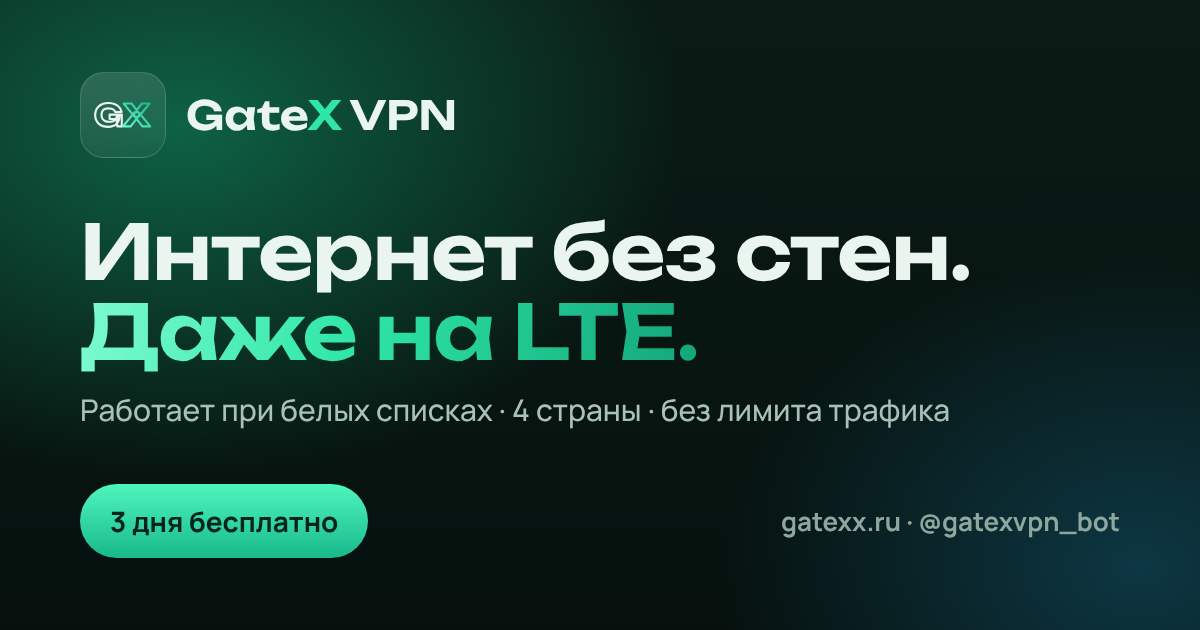
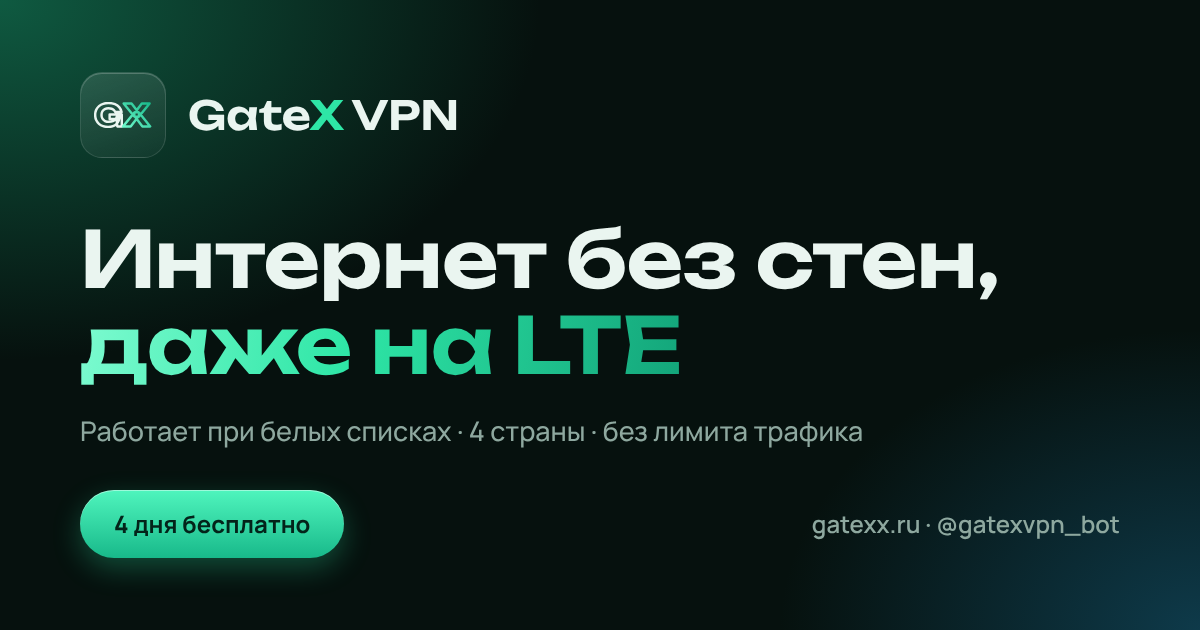
Site: 4-day trial everywhere, og.png from source with new headline
Claude-Session: https://claude.ai/code/session_01S5mGcLpWXZYb4errWYKSSr

diff --git a/site/vpn-belye-spiski/index.html b/site/vpn-belye-spiski/index.html
@@ -4,10 +4,10 @@
 <meta charset="utf-8">
 <meta name="viewport" content="width=device-width, initial-scale=1, viewport-fit=cover">
 <title>VPN при белых списках на мобильном интернете | GateX</title>
-<meta name="description" content="Что такое белые списки у мобильных операторов, почему обычный VPN при них не работает и как подключить GateX за пару минут. 3 дня бесплатно в Telegram.">
+<meta name="description" content="Что такое белые списки у мобильных операторов, почему обычный VPN при них не работает и как подключить GateX за пару минут. 4 дня бесплатно в Telegram.">
 <meta name="theme-color" content="#06110e">
 <meta property="og:title" content="VPN при белых списках на мобильном интернете | GateX">
-<meta property="og:description" content="Что такое белые списки у мобильных операторов, почему обычный VPN при них не работает и как подключить GateX за пару минут. 3 дня бесплатно в Telegram.">
+<meta property="og:description" content="Что такое белые списки у мобильных операторов, почему обычный VPN при них не работает и как подключить GateX за пару минут. 4 дня бесплатно в Telegram.">
 <meta property="og:type" content="article">
 <meta property="og:url" content="https://gatexx.ru/vpn-belye-spiski/">
 <meta property="og:image" content="https://gatexx.ru/og.png">
@@ -21,7 +21,7 @@
 <link rel="preconnect" href="https://fonts.gstatic.com" crossorigin>
 <link rel="stylesheet" href="https://fonts.googleapis.com/css2?family=Manrope:wght@400;500;600;700;800&family=Unbounded:wght@500;600;700&display=swap">
 <link rel="stylesheet" href="/assets/guide.css">
-<script type="application/ld+json">{"@context": "https://schema.org", "@type": "Article", "headline": "VPN при белых списках на мобильном интернете", "description": "Что такое белые списки у мобильных операторов, почему обычный VPN при них не работает и как подключить GateX за пару минут. 3 дня бесплатно в Telegram.", "inLanguage": "ru", "mainEntityOfPage": "https://gatexx.ru/vpn-belye-spiski/", "image": "https://gatexx.ru/og.png", "datePublished": "2026-11-02", "dateModified": "2026-11-02", "author": {"@type": "Organization", "name": "GateX VPN", "url": "https://gatexx.ru/", "logo": "https://gatexx.ru/apple-touch-icon.png"}, "publisher": {"@type": "Organization", "name": "GateX VPN", "url": "https://gatexx.ru/", "logo": "https://gatexx.ru/apple-touch-icon.png"}}</script>
+<script type="application/ld+json">{"@context": "https://schema.org", "@type": "Article", "headline": "VPN при белых списках на мобильном интернете", "description": "Что такое белые списки у мобильных операторов, почему обычный VPN при них не работает и как подключить GateX за пару минут. 4 дня бесплатно в Telegram.", "inLanguage": "ru", "mainEntityOfPage": "https://gatexx.ru/vpn-belye-spiski/", "image": "https://gatexx.ru/og.png", "datePublished": "2026-11-02", "dateModified": "2026-11-02", "author": {"@type": "Organization", "name": "GateX VPN", "url": "https://gatexx.ru/", "logo": "https://gatexx.ru/apple-touch-icon.png"}, "publisher": {"@type": "Organization", "name": "GateX VPN", "url": "https://gatexx.ru/", "logo": "https://gatexx.ru/apple-touch-icon.png"}}</script>
 <script type="application/ld+json">{"@context": "https://schema.org", "@type": "BreadcrumbList", "itemListElement": [{"@type": "ListItem", "position": 1, "name": "Главная", "item": "https://gatexx.ru/"}, {"@type": "ListItem", "position": 2, "name": "Инструкции", "item": "https://gatexx.ru/instrukcii/"}, {"@type": "ListItem", "position": 3, "name": "VPN при белых списках", "item": "https://gatexx.ru/vpn-belye-spiski/"}]}</script>
 <script type="application/ld+json">{"@context": "https://schema.org", "@type": "FAQPage", "mainEntity": [{"@type": "Question", "name": "Будет ли GateX работать у моего оператора?", "acceptedAnswer": {"@type": "Answer", "text": "У большинства операторов да, но списки отличаются по регионам. Точно это покажет проверка на вашей SIM-карте в бесплатный пробный период."}}, {"@type": "Question", "name": "Нужно ли что-то включать, когда появились белые списки?", "acceptedAnswer": {"@type": "Answer", "text": "Нет. Если в тарифе есть обход, серверы для LTE уже есть в приложении. Выберите один из них или режим «⚡ Авто»."}}, {"@type": "Question", "name": "Нужен ли обход дома на Wi-Fi?", "acceptedAnswer": {"@type": "Answer", "text": "Нет. Дома хватает обычных серверов. Обход нужен только на мобильном интернете там, где оператор включает ограничения."}}, {"@type": "Question", "name": "Работает ли на iPhone и Android?", "acceptedAnswer": {"@type": "Answer", "text": "Да, а также на Windows и macOS. Подписка добавляется в Happ одной кнопкой, подробнее в инструкции по настройке Happ."}}, {"@type": "Question", "name": "Что делать, если всё равно не подключается?", "acceptedAnswer": {"@type": "Answer", "text": "Напишите в поддержку: укажите оператора, город и приложение. Отвечает человек."}}]}</script>
 </head>
@@ -68,7 +68,7 @@
         <p class="lead">Когда оператор включает белые списки, на телефоне открываются только Госуслуги, банки и ещё несколько разрешённых сервисов. Обычный VPN в этот момент тоже перестаёт подключаться. Ниже о том, почему так происходит и как подключается GateX.</p>
         <p class="meta">Обновлено 2 ноября 2026</p>
         <div class="cta">
-          <a class="btn btn-primary" href="https://t.me/gatexvpn_bot" target="_blank" rel="noopener"><svg><use href="#i-tg"/></svg>3 дня бесплатно</a>
+          <a class="btn btn-primary" href="https://t.me/gatexvpn_bot" target="_blank" rel="noopener"><svg><use href="#i-tg"/></svg>4 дня бесплатно</a>
           <a class="btn btn-glass" href="/#pricing">Тарифы от 49 ₽</a>
         </div>
       </header>
@@ -106,7 +106,7 @@
 они приходят вместе с подпиской, отдельно ничего включать не нужно.</p>
 <h2 id="podklyuchit">Как подключить за пару минут</h2>
 
-<div class="steps in-doc"><article class="step glass"><span class="n">1</span><h3>Откройте бота</h3><p>Нажмите «Старт» в <a href="https://t.me/gatexvpn_bot" target="_blank" rel="noopener">@gatexvpn_bot</a>. Регистрация не нужна, только Telegram.</p></article><article class="step glass"><span class="n">2</span><h3>Включите пробный период</h3><p>3 дня бесплатно, с обходом белых списков. Карта не нужна.</p></article><article class="step glass"><span class="n">3</span><h3>Добавьте подписку в приложение</h3><p>В боте нажмите «🔗 Подключиться», затем кнопку добавления в Happ. Подробно в инструкции по <a href="/happ-nastroika/">настройке Happ</a>.</p></article><article class="step glass"><span class="n">4</span><h3>Выберите сервер для LTE</h3><p>Если оператор включил ограничения, подключайтесь к серверу с пометкой LTE.</p></article></div>
+<div class="steps in-doc"><article class="step glass"><span class="n">1</span><h3>Откройте бота</h3><p>Нажмите «Старт» в <a href="https://t.me/gatexvpn_bot" target="_blank" rel="noopener">@gatexvpn_bot</a>. Регистрация не нужна, только Telegram.</p></article><article class="step glass"><span class="n">2</span><h3>Включите пробный период</h3><p>4 дня бесплатно за подписку на канал GateX, с обходом белых списков. Карта не нужна.</p></article><article class="step glass"><span class="n">3</span><h3>Добавьте подписку в приложение</h3><p>В боте нажмите «🔗 Подключиться», затем кнопку добавления в Happ. Подробно в инструкции по <a href="/happ-nastroika/">настройке Happ</a>.</p></article><article class="step glass"><span class="n">4</span><h3>Выберите сервер для LTE</h3><p>Если оператор включил ограничения, подключайтесь к серверу с пометкой LTE.</p></article></div>
 <h2 id="chestno">Где это может не сработать</h2>
 
 <p>У каждого оператора и региона свой список разрешённых адресов, и он время от времени меняется. В большинстве
@@ -146,7 +146,7 @@
     <div class="wrap">
       <div class="final glass">
         <h2>Проверьте обход на своей SIM-карте</h2>
-        <p>3 дня бесплатно, без карты. Если не подойдёт, ничего не оплачивайте.</p>
+        <p>4 дня бесплатно, без карты. Если не подойдёт, ничего не оплачивайте.</p>
         <div class="cta">
           <a class="btn btn-primary" href="https://t.me/gatexvpn_bot" target="_blank" rel="noopener"><svg><use href="#i-tg"/></svg>Открыть @gatexvpn_bot</a>
           <a class="btn btn-glass" href="https://t.me/gatexvpn_support" target="_blank" rel="noopener">Написать в поддержку</a>

diff --git a/site/vpn-krym/index.html b/site/vpn-krym/index.html
@@ -4,10 +4,10 @@
 <meta charset="utf-8">
 <meta name="viewport" content="width=device-width, initial-scale=1, viewport-fit=cover">
 <title>VPN для Крыма: что не работает и как подключиться | GateX</title>
-<meta name="description" content="Почему в Крыму не открываются многие зарубежные сервисы, какой VPN выбрать и как он работает у местных операторов. 3 дня бесплатно, чтобы проверить на своей SIM-карте.">
+<meta name="description" content="Почему в Крыму не открываются многие зарубежные сервисы, какой VPN выбрать и как он работает у местных операторов. 4 дня бесплатно, чтобы проверить на своей SIM-карте.">
 <meta name="theme-color" content="#06110e">
 <meta property="og:title" content="VPN для Крыма: что не работает и как подключиться | GateX">
-<meta property="og:description" content="Почему в Крыму не открываются многие зарубежные сервисы, какой VPN выбрать и как он работает у местных операторов. 3 дня бесплатно, чтобы проверить на своей SIM-карте.">
+<meta property="og:description" content="Почему в Крыму не открываются многие зарубежные сервисы, какой VPN выбрать и как он работает у местных операторов. 4 дня бесплатно, чтобы проверить на своей SIM-карте.">
 <meta property="og:type" content="article">
 <meta property="og:url" content="https://gatexx.ru/vpn-krym/">
 <meta property="og:image" content="https://gatexx.ru/og.png">
@@ -21,7 +21,7 @@
 <link rel="preconnect" href="https://fonts.gstatic.com" crossorigin>
 <link rel="stylesheet" href="https://fonts.googleapis.com/css2?family=Manrope:wght@400;500;600;700;800&family=Unbounded:wght@500;600;700&display=swap">
 <link rel="stylesheet" href="/assets/guide.css">
-<script type="application/ld+json">{"@context": "https://schema.org", "@type": "Article", "headline": "VPN для Крыма", "description": "Почему в Крыму не открываются многие зарубежные сервисы, какой VPN выбрать и как он работает у местных операторов. 3 дня бесплатно, чтобы проверить на своей SIM-карте.", "inLanguage": "ru", "mainEntityOfPage": "https://gatexx.ru/vpn-krym/", "image": "https://gatexx.ru/og.png", "datePublished": "2026-11-02", "dateModified": "2026-11-02", "author": {"@type": "Organization", "name": "GateX VPN", "url": "https://gatexx.ru/", "logo": "https://gatexx.ru/apple-touch-icon.png"}, "publisher": {"@type": "Organization", "name": "GateX VPN", "url": "https://gatexx.ru/", "logo": "https://gatexx.ru/apple-touch-icon.png"}}</script>
+<script type="application/ld+json">{"@context": "https://schema.org", "@type": "Article", "headline": "VPN для Крыма", "description": "Почему в Крыму не открываются многие зарубежные сервисы, какой VPN выбрать и как он работает у местных операторов. 4 дня бесплатно, чтобы проверить на своей SIM-карте.", "inLanguage": "ru", "mainEntityOfPage": "https://gatexx.ru/vpn-krym/", "image": "https://gatexx.ru/og.png", "datePublished": "2026-11-02", "dateModified": "2026-11-02", "author": {"@type": "Organization", "name": "GateX VPN", "url": "https://gatexx.ru/", "logo": "https://gatexx.ru/apple-touch-icon.png"}, "publisher": {"@type": "Organization", "name": "GateX VPN", "url": "https://gatexx.ru/", "logo": "https://gatexx.ru/apple-touch-icon.png"}}</script>
 <script type="application/ld+json">{"@context": "https://schema.org", "@type": "BreadcrumbList", "itemListElement": [{"@type": "ListItem", "position": 1, "name": "Главная", "item": "https://gatexx.ru/"}, {"@type": "ListItem", "position": 2, "name": "Инструкции", "item": "https://gatexx.ru/instrukcii/"}, {"@type": "ListItem", "position": 3, "name": "VPN для Крыма", "item": "https://gatexx.ru/vpn-krym/"}]}</script>
 <script type="application/ld+json">{"@context": "https://schema.org", "@type": "FAQPage", "mainEntity": [{"@type": "Question", "name": "Поможет ли VPN открыть сервисы, которые не работают в Крыму из-за санкций?", "acceptedAnswer": {"@type": "Answer", "text": "Да. С сервером в Европе сервис видит европейский адрес."}}, {"@type": "Question", "name": "Работает ли GateX на «Волне» и Win Mobile?", "acceptedAnswer": {"@type": "Answer", "text": "Да, у обоих операторов GateX работает стабильно. Для мобильной сети выбирайте серверы с пометкой LTE. Проверить можно бесплатно в пробный период."}}, {"@type": "Question", "name": "Какие способы оплаты есть?", "acceptedAnswer": {"@type": "Answer", "text": "СБП и криптовалюта, оплата в личном кабинете бота. Карта иностранного банка не нужна."}}, {"@type": "Question", "name": "Можно ли подключить всю семью?", "acceptedAnswer": {"@type": "Answer", "text": "Да, на тарифе «Семейный» 7 устройств, и пакеты можно докупить до 21 устройства."}}]}</script>
 </head>
@@ -68,7 +68,7 @@
         <p class="lead">В Крыму к обычным российским ограничениям добавляются санкционные: многие зарубежные сервисы сами не обслуживают крымские адреса. Разбираем, что с этим делать и как VPN ведёт себя у местных операторов.</p>
         <p class="meta">Обновлено 2 ноября 2026</p>
         <div class="cta">
-          <a class="btn btn-primary" href="https://t.me/gatexvpn_bot" target="_blank" rel="noopener"><svg><use href="#i-tg"/></svg>3 дня бесплатно</a>
+          <a class="btn btn-primary" href="https://t.me/gatexvpn_bot" target="_blank" rel="noopener"><svg><use href="#i-tg"/></svg>4 дня бесплатно</a>
           <a class="btn btn-glass" href="/#pricing">Тарифы от 49 ₽</a>
         </div>
       </header>
@@ -100,7 +100,7 @@
 <div class="note glass"><p>У Win Mobile и «Волны» самый строгий фильтр в Крыму, поэтому для них у GateX есть отдельные серверы для мобильной сети. Проверьте на своём телефоне в бесплатный пробный период: если что-то не так, поддержка поможет выбрать сервер.</p></div>
 <h2 id="kak">Как подключить</h2>
 
-<div class="steps in-doc"><article class="step glass"><span class="n">1</span><h3>Откройте бота</h3><p><a href="https://t.me/gatexvpn_bot" target="_blank" rel="noopener">@gatexvpn_bot</a> в Telegram, нажмите «Старт».</p></article><article class="step glass"><span class="n">2</span><h3>Включите пробный период</h3><p>3 дня бесплатно, с серверами для мобильной сети.</p></article><article class="step glass"><span class="n">3</span><h3>Добавьте подписку в Happ</h3><p>Кнопка «🔗 Подключиться» в боте. Пошагово в инструкции по <a href="/happ-nastroika/">настройке Happ</a>.</p></article><article class="step glass"><span class="n">4</span><h3>Проверьте дома и на мобильном</h3><p>На Wi-Fi выберите «⚡ Авто», на мобильной сети попробуйте серверы с пометкой LTE.</p></article></div>
+<div class="steps in-doc"><article class="step glass"><span class="n">1</span><h3>Откройте бота</h3><p><a href="https://t.me/gatexvpn_bot" target="_blank" rel="noopener">@gatexvpn_bot</a> в Telegram, нажмите «Старт».</p></article><article class="step glass"><span class="n">2</span><h3>Включите пробный период</h3><p>4 дня бесплатно за подписку на канал GateX, с серверами для мобильной сети.</p></article><article class="step glass"><span class="n">3</span><h3>Добавьте подписку в Happ</h3><p>Кнопка «🔗 Подключиться» в боте. Пошагово в инструкции по <a href="/happ-nastroika/">настройке Happ</a>.</p></article><article class="step glass"><span class="n">4</span><h3>Проверьте дома и на мобильном</h3><p>На Wi-Fi выберите «⚡ Авто», на мобильной сети попробуйте серверы с пометкой LTE.</p></article></div>
 <p>Если на мобильном интернете не подключается ни один сервер, напишите в
 <a href="https://t.me/gatexvpn_support" target="_blank" rel="noopener">поддержку</a>: укажите оператора и город.
 Подскажем, что ещё попробовать.</p>
@@ -130,7 +130,7 @@
     <div class="wrap">
       <div class="final glass">
         <h2>Проверьте GateX у своего оператора</h2>
-        <p>3 дня бесплатно, без карты. Если не подойдёт, ничего не оплачивайте.</p>
+        <p>4 дня бесплатно, без карты. Если не подойдёт, ничего не оплачивайте.</p>
         <div class="cta">
           <a class="btn btn-primary" href="https://t.me/gatexvpn_bot" target="_blank" rel="noopener"><svg><use href="#i-tg"/></svg>Открыть @gatexvpn_bot</a>
           <a class="btn btn-glass" href="https://t.me/gatexvpn_support" target="_blank" rel="noopener">Написать в поддержку</a>

diff --git a/site/vpn-ne-rabotaet-na-mobilnom/index.html b/site/vpn-ne-rabotaet-na-mobilnom/index.html
@@ -23,7 +23,7 @@
 <link rel="stylesheet" href="/assets/guide.css">
 <script type="application/ld+json">{"@context": "https://schema.org", "@type": "Article", "headline": "VPN не работает на мобильном интернете: 7 причин", "description": "VPN работает на Wi-Fi, но не подключается на LTE? Семь частых причин: белые списки, блокировка протоколов, устаревшая подписка и другие, и что делать в каждом случае.", "inLanguage": "ru", "mainEntityOfPage": "https://gatexx.ru/vpn-ne-rabotaet-na-mobilnom/", "image": "https://gatexx.ru/og.png", "datePublished": "2026-11-02", "dateModified": "2026-11-02", "author": {"@type": "Organization", "name": "GateX VPN", "url": "https://gatexx.ru/", "logo": "https://gatexx.ru/apple-touch-icon.png"}, "publisher": {"@type": "Organization", "name": "GateX VPN", "url": "https://gatexx.ru/", "logo": "https://gatexx.ru/apple-touch-icon.png"}}</script>
 <script type="application/ld+json">{"@context": "https://schema.org", "@type": "BreadcrumbList", "itemListElement": [{"@type": "ListItem", "position": 1, "name": "Главная", "item": "https://gatexx.ru/"}, {"@type": "ListItem", "position": 2, "name": "Инструкции", "item": "https://gatexx.ru/instrukcii/"}, {"@type": "ListItem", "position": 3, "name": "VPN не работает на мобильном", "item": "https://gatexx.ru/vpn-ne-rabotaet-na-mobilnom/"}]}</script>
-<script type="application/ld+json">{"@context": "https://schema.org", "@type": "FAQPage", "mainEntity": [{"@type": "Question", "name": "Почему VPN работает на Wi-Fi, но не работает на LTE?", "acceptedAnswer": {"@type": "Answer", "text": "Чаще всего мобильный оператор фильтрует соединения: включил белые списки или блокирует протокол VPN. Домашний интернет этих ограничений обычно не имеет."}}, {"@type": "Question", "name": "Поможет ли перезагрузка телефона?", "acceptedAnswer": {"@type": "Answer", "text": "Иногда да, если завис сам VPN-клиент. Если причина в фильтрах оператора, нужен VPN, который умеет их обходить."}}, {"@type": "Question", "name": "Какой протокол VPN сейчас работает на мобильном интернете?", "acceptedAnswer": {"@type": "Answer", "text": "Лучше всего показывают себя VLESS с Reality и похожие протоколы, которые выглядят как обычный HTTPS-трафик."}}, {"@type": "Question", "name": "Можно ли проверить GateX бесплатно?", "acceptedAnswer": {"@type": "Answer", "text": "Да, 3 дня пробного периода с обходом белых списков, без карты."}}]}</script>
+<script type="application/ld+json">{"@context": "https://schema.org", "@type": "FAQPage", "mainEntity": [{"@type": "Question", "name": "Почему VPN работает на Wi-Fi, но не работает на LTE?", "acceptedAnswer": {"@type": "Answer", "text": "Чаще всего мобильный оператор фильтрует соединения: включил белые списки или блокирует протокол VPN. Домашний интернет этих ограничений обычно не имеет."}}, {"@type": "Question", "name": "Поможет ли перезагрузка телефона?", "acceptedAnswer": {"@type": "Answer", "text": "Иногда да, если завис сам VPN-клиент. Если причина в фильтрах оператора, нужен VPN, который умеет их обходить."}}, {"@type": "Question", "name": "Какой протокол VPN сейчас работает на мобильном интернете?", "acceptedAnswer": {"@type": "Answer", "text": "Лучше всего показывают себя VLESS с Reality и похожие протоколы, которые выглядят как обычный HTTPS-трафик."}}, {"@type": "Question", "name": "Можно ли проверить GateX бесплатно?", "acceptedAnswer": {"@type": "Answer", "text": "Да, 4 дня пробного периода с обходом белых списков, без карты."}}]}</script>
 </head>
 <body>
 <svg width="0" height="0" style="position:absolute" aria-hidden="true">
@@ -68,7 +68,7 @@
         <p class="lead">Частая ситуация: дома на Wi-Fi VPN работает, а на мобильном интернете бесконечно подключается. Причины ниже идут от самых частых, по обращениям в поддержку.</p>
         <p class="meta">Обновлено 2 ноября 2026</p>
         <div class="cta">
-          <a class="btn btn-primary" href="https://t.me/gatexvpn_bot" target="_blank" rel="noopener"><svg><use href="#i-tg"/></svg>3 дня бесплатно</a>
+          <a class="btn btn-primary" href="https://t.me/gatexvpn_bot" target="_blank" rel="noopener"><svg><use href="#i-tg"/></svg>4 дня бесплатно</a>
           <a class="btn btn-glass" href="/#pricing">Тарифы от 49 ₽</a>
         </div>
       </header>
@@ -115,7 +115,7 @@ GateX использует именно их.</p>
         <details class="glass"><summary>Почему VPN работает на Wi-Fi, но не работает на LTE?</summary><p>Чаще всего мобильный оператор фильтрует соединения: включил белые списки или блокирует протокол VPN. Домашний интернет этих ограничений обычно не имеет.</p></details>
         <details class="glass"><summary>Поможет ли перезагрузка телефона?</summary><p>Иногда да, если завис сам VPN-клиент. Если причина в фильтрах оператора, нужен VPN, который умеет их обходить.</p></details>
         <details class="glass"><summary>Какой протокол VPN сейчас работает на мобильном интернете?</summary><p>Лучше всего показывают себя VLESS с Reality и похожие протоколы, которые выглядят как обычный HTTPS-трафик.</p></details>
-        <details class="glass"><summary>Можно ли проверить GateX бесплатно?</summary><p>Да, 3 дня пробного периода с обходом белых списков, без карты.</p></details>
+        <details class="glass"><summary>Можно ли проверить GateX бесплатно?</summary><p>Да, 4 дня пробного периода с обходом белых списков, без карты.</p></details>
       </div>
     </article>
   </div>
@@ -129,7 +129,7 @@ GateX использует именно их.</p>
     <div class="wrap">
       <div class="final glass">
         <h2>Проверьте GateX на своём телефоне</h2>
-        <p>3 дня бесплатно, без карты. Если не подойдёт, ничего не оплачивайте.</p>
+        <p>4 дня бесплатно, без карты. Если не подойдёт, ничего не оплачивайте.</p>
         <div class="cta">
           <a class="btn btn-primary" href="https://t.me/gatexvpn_bot" target="_blank" rel="noopener"><svg><use href="#i-tg"/></svg>Открыть @gatexvpn_bot</a>
           <a class="btn btn-glass" href="https://t.me/gatexvpn_support" target="_blank" rel="noopener">Написать в поддержку</a>

diff --git a/site/index.html b/site/index.html
@@ -5,10 +5,10 @@
 <meta name="viewport" content="width=device-width, initial-scale=1, viewport-fit=cover">
 <title>GateX VPN: работает при белых списках на мобильном интернете</title>
 <meta name="claude:viewport-fit-sides" content="cover">
-<meta name="description" content="GateX VPN работает даже при белых списках на мобильном интернете. Серверы в Нидерландах, Германии, Франции и Польше, без лимита трафика. 3 дня бесплатно в Telegram-боте.">
+<meta name="description" content="GateX VPN работает даже при белых списках на мобильном интернете. Серверы в Нидерландах, Германии, Франции и Польше, без лимита трафика. 4 дня бесплатно в Telegram-боте.">
 <meta name="theme-color" content="#06110e">
 <meta property="og:title" content="GateX VPN">
-<meta property="og:description" content="VPN для мобильного интернета с белыми списками. 3 дня бесплатно в Telegram.">
+<meta property="og:description" content="VPN для мобильного интернета с белыми списками. 4 дня бесплатно в Telegram.">
 <meta property="og:type" content="website">
 <meta property="og:url" content="https://gatexx.ru/">
 <meta property="og:image" content="https://gatexx.ru/og.png">
@@ -338,7 +338,7 @@ footer .links a:hover { color: var(--text); }
       <h1>Интернет без&nbsp;стен, <span class="stroke">даже на&nbsp;LTE</span></h1>
       <p class="lead">GateX подключает к свободному интернету, когда мобильный оператор пускает только сайты из белого списка. Без лимита трафика, серверы в Европе, всё управление в Telegram.</p>
       <div class="cta">
-        <a class="btn btn-primary" href="https://t.me/gatexvpn_bot" target="_blank" rel="noopener"><svg><use href="#i-tg"/></svg>3 дня бесплатно</a>
+        <a class="btn btn-primary" href="https://t.me/gatexvpn_bot" target="_blank" rel="noopener"><svg><use href="#i-tg"/></svg>4 дня бесплатно</a>
         <a class="btn btn-glass" href="#pricing">Тарифы от 49 ₽</a>
       </div>
       <div class="facts">
@@ -445,8 +445,8 @@ footer .links a:hover { color: var(--text); }
         </article>
         <article class="step glass">
           <span class="n">2</span>
-          <h3>Получите 3 дня бесплатно</h3>
-          <p>Пробный период включается сразу: 2 устройства и обход белых списков.</p>
+          <h3>Получите 4 дня бесплатно</h3>
+          <p>Подпишитесь на канал GateX, и пробный период включится сразу: 2 устройства и обход белых списков.</p>
         </article>
         <article class="step glass">
           <span class="n">3</span>
@@ -545,7 +545,7 @@ footer .links a:hover { color: var(--text); }
       </div>
 
       <div class="trial glass">
-        <p><b>Не уверены?</b> Первые 3 дня бесплатно: 2 устройства и обход белых списков, без оплаты и карты.</p>
+        <p><b>Не уверены?</b> Первые 4 дня бесплатно: 2 устройства и обход белых списков, без оплаты и карты.</p>
         <a class="btn btn-primary btn-sm" href="https://t.me/gatexvpn_bot" target="_blank" rel="noopener"><svg><use href="#i-tg"/></svg>Попробовать</a>
       </div>
       <p class="fine">Цены в рублях. Оплата в личном кабинете бота через СБП или криптовалютой. Дополнительные устройства покупаются пакетами по цене тарифа.</p>
@@ -627,7 +627,7 @@ footer .links a:hover { color: var(--text); }
     <div class="wrap">
       <div class="final glass">
         <h2>Попробуйте GateX бесплатно</h2>
-        <p>Три дня без оплаты и без карты. Если не подойдёт, ничего не оплачивайте.</p>
+        <p>Четыре дня без оплаты и без карты. Если не подойдёт, ничего не оплачивайте.</p>
         <div class="cta">
           <a class="btn btn-primary" href="https://t.me/gatexvpn_bot" target="_blank" rel="noopener"><svg><use href="#i-tg"/></svg>Открыть @gatexvpn_bot</a>
           <a class="btn btn-glass" href="https://t.me/gatexvpn_support" target="_blank" rel="noopener">Написать в поддержку</a>

diff --git a/site/tools/og.html b/site/tools/og.html
@@ -1,0 +1,41 @@
+<!doctype html>
+<html lang="ru"><head><meta charset="utf-8">
+<!-- Source of site/og.png (1200x630). Render: node site/tools/render_og.js -->
+<link rel="stylesheet" href="https://fonts.googleapis.com/css2?family=Manrope:wght@400;500;600;700;800&family=Unbounded:wght@500;600;700&display=swap">
+<link rel="stylesheet" href="/assets/guide.css">
+<style>
+html,body{margin:0;width:1200px;height:630px;overflow:hidden}
+body{background:radial-gradient(900px 600px at 0% 0%, #0f5a41 0%, transparent 60%),radial-gradient(700px 500px at 100% 100%, #0e3a4a 0%, transparent 60%),var(--bg);}
+.og{position:absolute;inset:0;padding:72px 80px;display:flex;flex-direction:column}
+.og .brand{font-size:40px;gap:22px}
+.og .gx{width:86px;height:86px;border-radius:22px}
+.og .gx svg{width:58px}
+.og h1{font-size:78px;line-height:1.1;margin-top:58px;letter-spacing:-0.01em}
+.og h1 .stroke{background:linear-gradient(100deg,#7dfbd0,var(--accent) 45%,#13a57a);-webkit-background-clip:text;background-clip:text;color:transparent}
+.og .sub{color:var(--muted);font-size:27px;margin-top:22px;font-weight:500}
+.og .row{margin-top:auto;display:flex;align-items:center;justify-content:space-between}
+.og .btn{font-size:24px;padding:22px 34px;border-radius:999px}
+.og .addr{color:var(--muted);font-size:24px;font-weight:600}
+</style></head><body>
+<svg width="0" height="0" style="position:absolute" aria-hidden="true">
+  <defs>
+    <linearGradient id="gxMint" x1="0" y1="0" x2="1" y2="1"><stop offset="0" stop-color="#6ff9cb"/><stop offset="1" stop-color="#18b98a"/></linearGradient>
+    <!-- GX mark, letter outlines only -->
+    <g id="gxMark">
+      <g transform="scale(1 -1)" fill="none" stroke-linejoin="round">
+        <path stroke="#eaf5f0" d="M838 325Q835 257 810.5 195.5Q786 134 739.5 86.0Q693 38 623.5 11.0Q554 -16 462 -16Q374 -16 297.0 9.5Q220 35 161.5 85.0Q103 135 70.5 208.0Q38 281 38 375Q38 469 71.0 542.0Q104 615 163.5 665.0Q223 715 301.5 740.5Q380 766 473 766Q597 766 687.0 728.0Q777 690 832.0 624.0Q887 558 903 471H694Q684 509 653.5 536.5Q623 564 577.5 578.5Q532 593 474 593Q404 593 353.0 568.5Q302 544 274.0 495.5Q246 447 246 375Q246 302 276.0 252.0Q306 202 361.5 177.0Q417 152 492 152Q565 152 621.0 172.5Q677 193 710.5 233.0Q744 273 749 329ZM512 242V388H910V0H763L734 297L773 242Z"/>
+        <path stroke="url(#gxMint)" transform="translate(961 0)" d="M513 327V453L881 0H626L383 314H485L241 0H-11L359 452V328L11 750H270L490 466H388L605 750H860Z"/>
+      </g>
+    </g>
+    <symbol id="i-check" viewBox="0 0 24 24"><path d="M5 12.5l4.2 4.2L19 7" fill="none" stroke="currentColor" stroke-width="2.2" stroke-linecap="round" stroke-linejoin="round"/></symbol>
+    <symbol id="i-minus" viewBox="0 0 24 24"><path d="M6 12h12" fill="none" stroke="currentColor" stroke-width="2.2" stroke-linecap="round"/></symbol>
+    <symbol id="i-tg" viewBox="0 0 24 24"><path d="M21.5 4.2L2.9 11.4c-1 .4-1 1.6.1 1.9l4.7 1.5 1.8 5.6c.3.8 1.3 1 1.9.4l2.6-2.5 4.9 3.6c.7.5 1.7.1 1.9-.8l3.1-15.4c.2-1-.8-1.8-1.7-1.4zM9.6 14.3l8.2-7.2-6.9 8.6-.3 3.1-1-4.5z" fill="currentColor"/></symbol>
+  </defs>
+</svg>
+<div class="og">
+  <div class="brand"><span class="gx"><svg viewBox="0 -800 1900 840"><use href="#gxMark"/></svg></span><span>Gate<b>X</b> VPN</span></div>
+  <h1>Интернет без&nbsp;стен,<br><span class="stroke">даже на&nbsp;LTE</span></h1>
+  <div class="sub">Работает при белых списках · 4 страны · без лимита трафика</div>
+  <div class="row"><span class="btn btn-primary">4 дня бесплатно</span><span class="addr">gatexx.ru · @gatexvpn_bot</span></div>
+</div>
+</body></html>

diff --git a/site/happ-nastroika/index.html b/site/happ-nastroika/index.html
@@ -68,7 +68,7 @@
         <p class="lead">GateX подключается через Happ, бесплатное приложение для iPhone, Android, Windows и macOS. Настройка занимает пару минут, вводить вручную ничего не нужно.</p>
         <p class="meta">Обновлено 2 ноября 2026</p>
         <div class="cta">
-          <a class="btn btn-primary" href="https://t.me/gatexvpn_bot" target="_blank" rel="noopener"><svg><use href="#i-tg"/></svg>3 дня бесплатно</a>
+          <a class="btn btn-primary" href="https://t.me/gatexvpn_bot" target="_blank" rel="noopener"><svg><use href="#i-tg"/></svg>4 дня бесплатно</a>
           <a class="btn btn-glass" href="/#pricing">Тарифы от 49 ₽</a>
         </div>
       </header>
@@ -85,7 +85,7 @@
 в них так же. Для Windows и Android есть и наше приложение GateX, его можно скачать прямо в боте.</p>
 <h2 id="podpiska">Шаг 2. Получите подписку в боте</h2>
 
-<div class="steps in-doc"><article class="step glass"><span class="n">1</span><h3>Откройте бота</h3><p>Запустите <a href="https://t.me/gatexvpn_bot" target="_blank" rel="noopener">@gatexvpn_bot</a> и нажмите «Старт».</p></article><article class="step glass"><span class="n">2</span><h3>Включите пробный период</h3><p>3 дня бесплатно, без карты. Или выберите тариф и оплатите через СБП.</p></article><article class="step glass"><span class="n">3</span><h3>Нажмите «🔗 Подключиться»</h3><p>Откроется личный кабинет со статусом подписки и кнопкой добавления в приложение.</p></article></div>
+<div class="steps in-doc"><article class="step glass"><span class="n">1</span><h3>Откройте бота</h3><p>Запустите <a href="https://t.me/gatexvpn_bot" target="_blank" rel="noopener">@gatexvpn_bot</a> и нажмите «Старт».</p></article><article class="step glass"><span class="n">2</span><h3>Включите пробный период</h3><p>4 дня бесплатно за подписку на канал GateX, без карты. Или выберите тариф и оплатите через СБП.</p></article><article class="step glass"><span class="n">3</span><h3>Нажмите «🔗 Подключиться»</h3><p>Откроется личный кабинет со статусом подписки и кнопкой добавления в приложение.</p></article></div>
 <h2 id="dobavit">Шаг 3. Добавьте подписку в Happ</h2>
 
 <h3>Способ 1: одной кнопкой</h3>
@@ -138,7 +138,7 @@
     <div class="wrap">
       <div class="final glass">
         <h2>Проверьте GateX на своём телефоне</h2>
-        <p>3 дня бесплатно, без карты. Если не подойдёт, ничего не оплачивайте.</p>
+        <p>4 дня бесплатно, без карты. Если не подойдёт, ничего не оплачивайте.</p>
         <div class="cta">
           <a class="btn btn-primary" href="https://t.me/gatexvpn_bot" target="_blank" rel="noopener"><svg><use href="#i-tg"/></svg>Открыть @gatexvpn_bot</a>
           <a class="btn btn-glass" href="https://t.me/gatexvpn_support" target="_blank" rel="noopener">Написать в поддержку</a>

diff --git a/site/tools/render_og.js b/site/tools/render_og.js
@@ -1,0 +1,19 @@
+// Renders site/tools/og.html to site/og.png. Needs Playwright.
+// Serves the site folder on a local port so /assets/guide.css resolves.
+const { chromium } = require('playwright');
+const http = require('http'), fs = require('fs'), path = require('path');
+const root = path.resolve(__dirname, '..');
+const types = { '.html': 'text/html; charset=utf-8', '.css': 'text/css' };
+const srv = http.createServer((q, r) => {
+  const f = path.join(root, decodeURIComponent(q.url.split('?')[0]));
+  if (!f.startsWith(root) || !fs.existsSync(f) || fs.statSync(f).isDirectory()) { r.writeHead(404); return r.end(); }
+  r.writeHead(200, { 'Content-Type': types[path.extname(f)] || 'application/octet-stream' });
+  fs.createReadStream(f).pipe(r);
+}).listen(0, async () => {
+  const b = await chromium.launch();
+  const p = await b.newPage({ viewport: { width: 1200, height: 630 } });
+  await p.goto(`http://localhost:${srv.address().port}/tools/og.html`, { waitUntil: 'networkidle' });
+  await p.evaluate(() => document.fonts.ready);
+  await p.screenshot({ path: path.join(root, 'og.png') });
+  await b.close(); srv.close();
+});

diff --git a/site/instrukcii/index.html b/site/instrukcii/index.html
@@ -72,7 +72,7 @@
     <div class="wrap">
       <div class="final glass">
         <h2>Проверьте GateX на своём телефоне</h2>
-        <p>3 дня бесплатно, без карты. Если не подойдёт, ничего не оплачивайте.</p>
+        <p>4 дня бесплатно, без карты. Если не подойдёт, ничего не оплачивайте.</p>
         <div class="cta">
           <a class="btn btn-primary" href="https://t.me/gatexvpn_bot" target="_blank" rel="noopener"><svg><use href="#i-tg"/></svg>Открыть @gatexvpn_bot</a>
           <a class="btn btn-glass" href="https://t.me/gatexvpn_support" target="_blank" rel="noopener">Написать в поддержку</a>

diff --git a/site/tools/build_pages.py b/site/tools/build_pages.py
@@ -20,7 +20,7 @@ BASE = "https://gatexx.ru"
 BOT = "https://t.me/gatexvpn_bot"
 SUPPORT = "https://t.me/gatexvpn_support"
 CHANNEL = "https://t.me/gaatex_vpn"
-TRIAL = "3 дня"  # keep in sync with the bot and index.html
+TRIAL = "4 дня"  # keep in sync with the bot and index.html
 UPDATED = "2026-11-02"
 UPDATED_RU = "2 ноября 2026"
 
@@ -385,7 +385,7 @@ guide(
         ("podklyuchit", "Как подключить за пару минут", f"""
 {steps([
     ("Откройте бота", f'Нажмите «Старт» в <a href="{BOT}" target="_blank" rel="noopener">@gatexvpn_bot</a>. Регистрация не нужна, только Telegram.'),
-    ("Включите пробный период", f"{TRIAL} бесплатно, с обходом белых списков. Карта не нужна."),
+    ("Включите пробный период", f"{TRIAL} бесплатно за подписку на канал GateX, с обходом белых списков. Карта не нужна."),
     ("Добавьте подписку в приложение", f"В боте нажмите «🔗 Подключиться», затем кнопку добавления в Happ. Подробно в инструкции по {APPS_LINK}."),
     ("Выберите сервер для LTE", "Если оператор включил ограничения, подключайтесь к серверу с пометкой LTE."),
 ])}"""),
@@ -465,7 +465,7 @@ guide(
         ("kak", "Как подключить", f"""
 {steps([
     ("Откройте бота", f'<a href="{BOT}" target="_blank" rel="noopener">@gatexvpn_bot</a> в Telegram, нажмите «Старт».'),
-    ("Включите пробный период", f"{TRIAL} бесплатно, с серверами для мобильной сети."),
+    ("Включите пробный период", f"{TRIAL} бесплатно за подписку на канал GateX, с серверами для мобильной сети."),
     ("Добавьте подписку в Happ", f"Кнопка «🔗 Подключиться» в боте. Пошагово в инструкции по {APPS_LINK}."),
     ("Проверьте дома и на мобильном", "На Wi-Fi выберите «⚡ Авто», на мобильной сети попробуйте серверы с пометкой LTE."),
 ])}
@@ -514,7 +514,7 @@ guide(
         ("podpiska", "Шаг 2. Получите подписку в боте", f"""
 {steps([
     ("Откройте бота", f'Запустите <a href="{BOT}" target="_blank" rel="noopener">@gatexvpn_bot</a> и нажмите «Старт».'),
-    ("Включите пробный период", f"{TRIAL} бесплатно, без карты. Или выберите тариф и оплатите через СБП."),
+    ("Включите пробный период", f"{TRIAL} бесплатно за подписку на канал GateX, без карты. Или выберите тариф и оплатите через СБП."),
     ("Нажмите «🔗 Подключиться»", "Откроется личный кабинет со статусом подписки и кнопкой добавления в приложение."),
 ])}"""),
         ("dobavit", "Шаг 3. Добавьте подписку в Happ", """

diff --git a/site/README.md b/site/README.md
@@ -13,3 +13,7 @@
 `tools/build_pages.py` собирает страницы `instrukcii/`, `vpn-belye-spiski/`, `vpn-krym/`, `happ-nastroika/`, `vpn-ne-rabotaet-na-mobilnom/`, а также `404.html`, `sitemap.xml` и общий стиль `assets/guide.css` (стили берутся из `index.html`). Тексты страниц лежат в самом скрипте. После правки: `python3 tools/build_pages.py`, затем залить изменённые файлы. Папку `tools/` на хостинг не класть.
 
 Длина пробного периода в текстах задаётся константой `TRIAL` в скрипте, цены в таблице на странице про белые списки повторяют `PRICES` из `index.html`.
+
+## Картинка для превью ссылки
+
+`og.png` рендерится из `tools/og.html`: `node tools/render_og.js` (нужен Playwright). Срок пробного периода на картинке правится в `og.html` вместе с `TRIAL`.
